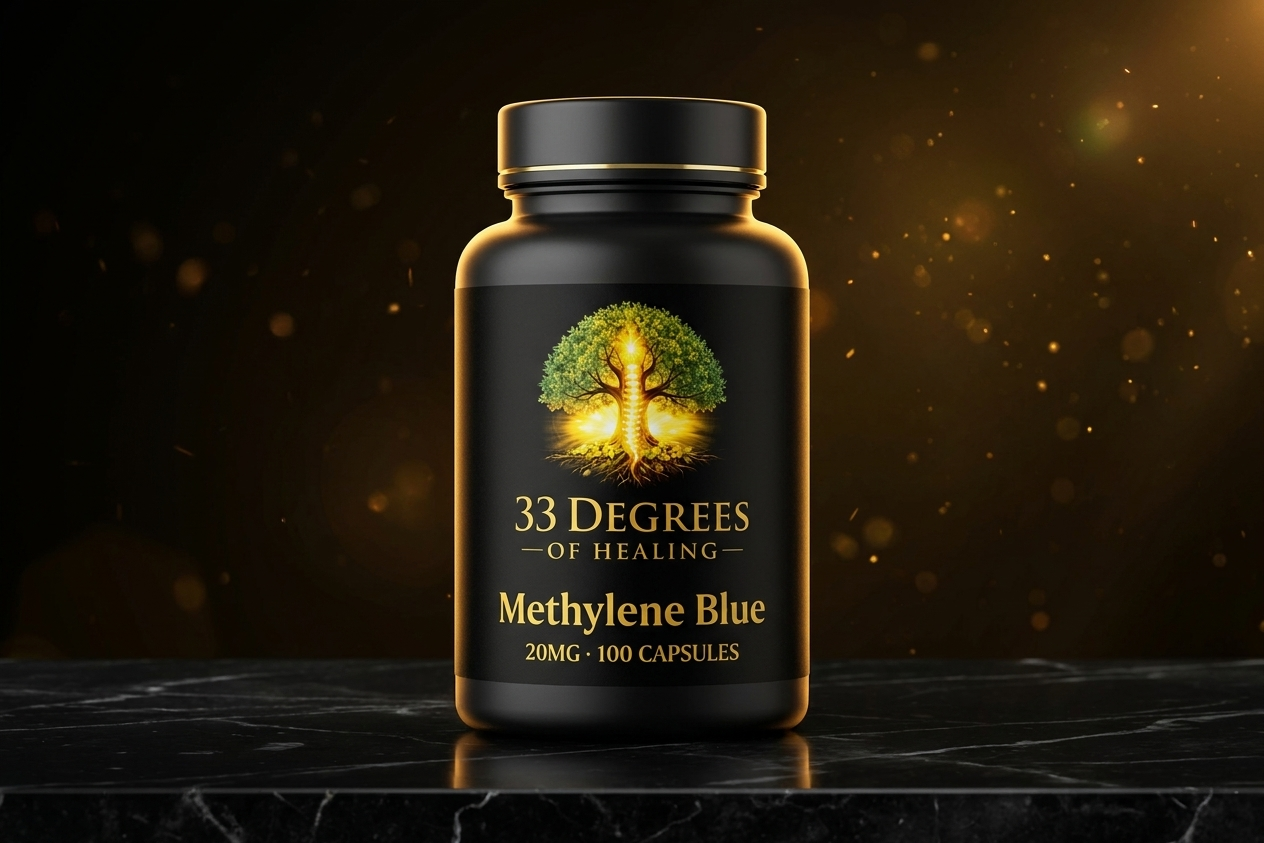
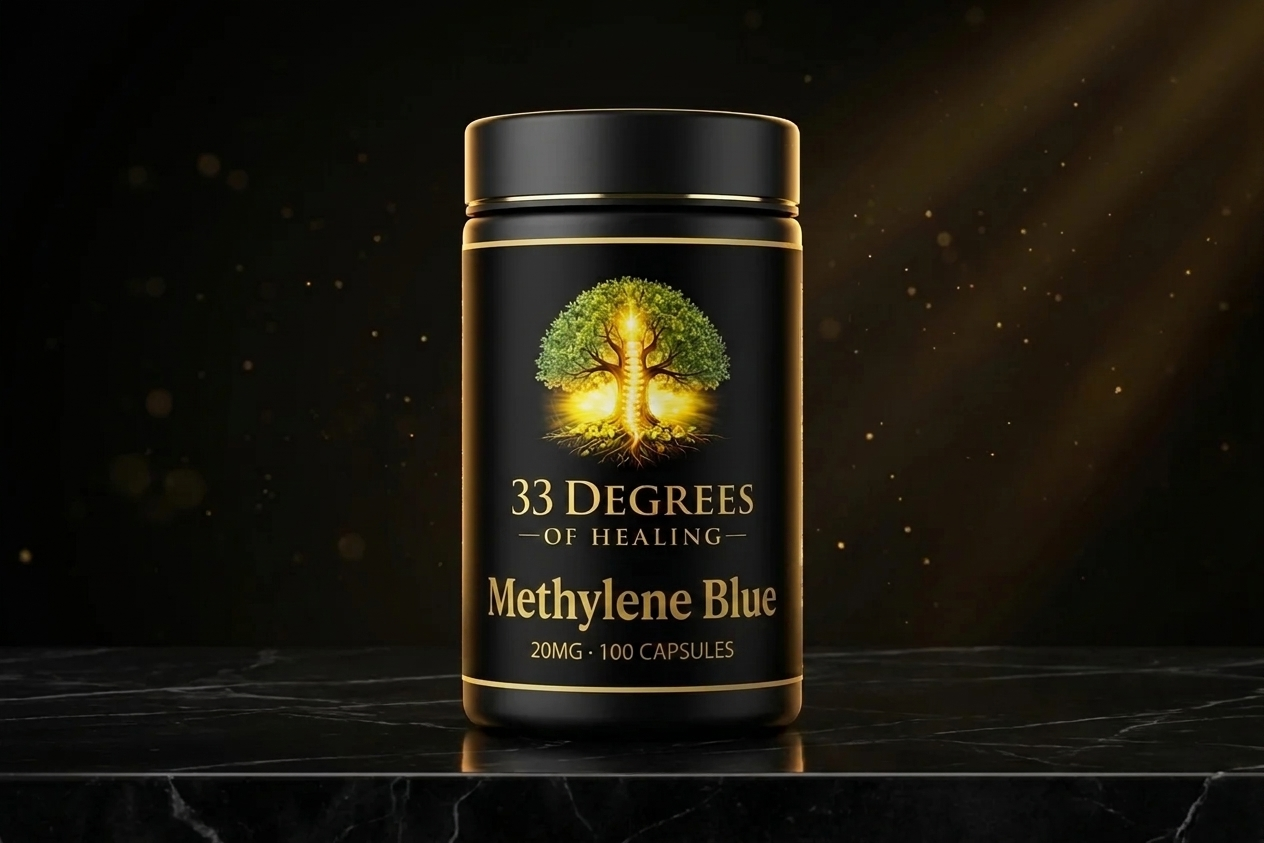
Methylene Blue bottle: clone Tesofensine + label text swap (matches lineup, no horizontal divider)

diff --git a/tools/regenerate_methylene_blue.py b/tools/regenerate_methylene_blue.py
@@ -1,0 +1,77 @@
+"""Regenerate Methylene Blue bottle by cloning Tesofensine + label text swap.
+
+User wanted Methylene Blue's bottle to match Tesofensine's shape (taller
+cylindrical, gold pinstripes) and to drop the horizontal line near the
+bottom of the previous label.
+"""
+from google import genai
+from google.genai import types
+from PIL import Image
+import os
+import io
+from pathlib import Path
+
+
+def _load_env_key():
+    env_path = Path(__file__).parent.parent / ".env"
+    if env_path.exists():
+        for line in env_path.read_text().splitlines():
+            if line.startswith("GEMINI_API_KEY="):
+                return line.split("=", 1)[1].strip().strip('"').strip("'")
+    return os.environ.get("GEMINI_API_KEY", "")
+
+
+API_KEY = _load_env_key()
+MODEL = "nano-banana-pro-preview"
+OUTPUT_DIR = os.path.join(os.path.dirname(os.path.dirname(__file__)), "assets/images/products")
+REFERENCE_PATH = os.path.join(OUTPUT_DIR, "tesofensine.webp")
+
+client = genai.Client(api_key=API_KEY)
+
+
+def generate():
+    prompt = """Take the attached product image (a 33 Degrees of Healing pill bottle with the tree logo) and produce a new image that is IDENTICAL in every visual respect EXCEPT for two text changes on the label:
+
+CHANGE THESE TWO STRINGS ONLY:
+1. Where the label currently says "Tesofensine" — change it to "Methylene Blue"
+2. Where the label currently shows "500MCG · 100 CAPSULES" — change it to "20MG · 100 CAPSULES"
+
+KEEP IDENTICAL:
+- The bottle shape, proportions, color (matte black), size
+- The cap (same shape, color, finish)
+- The gold pinstripe accent lines on the label (top and bottom)
+- The black label position, size, and styling
+- The golden tree of life logo (unchanged, same position)
+- The "33 DEGREES OF HEALING" text (unchanged, same font, size, position)
+- The exact dark marble surface, golden bokeh background, lighting, rim glow, reflection
+- The camera angle and framing
+
+DO NOT add any new horizontal divider lines on the label. The only edits should be the two text strings on the label. Everything else must be a near-perfect visual match to the reference image."""
+
+    with open(REFERENCE_PATH, "rb") as f:
+        ref_bytes = f.read()
+
+    response = client.models.generate_content(
+        model=MODEL,
+        contents=[
+            types.Part.from_bytes(data=ref_bytes, mime_type="image/webp"),
+            prompt,
+        ],
+        config=types.GenerateContentConfig(response_modalities=["IMAGE", "TEXT"]),
+    )
+
+    if response.candidates:
+        for part in response.candidates[0].content.parts:
+            if part.inline_data and part.inline_data.mime_type.startswith("image/"):
+                img = Image.open(io.BytesIO(part.inline_data.data))
+                img.save(os.path.join(OUTPUT_DIR, "methylene-blue.png"), "PNG")
+                img.save(os.path.join(OUTPUT_DIR, "methylene-blue.webp"), "WEBP", quality=85)
+                print(f"Created: methylene-blue.webp ({img.size[0]}x{img.size[1]})")
+                return True
+    print("FAILED — no image in response")
+    return False
+
+
+if __name__ == "__main__":
+    print(f"Cloning {REFERENCE_PATH} with label text swap...")
+    generate()
